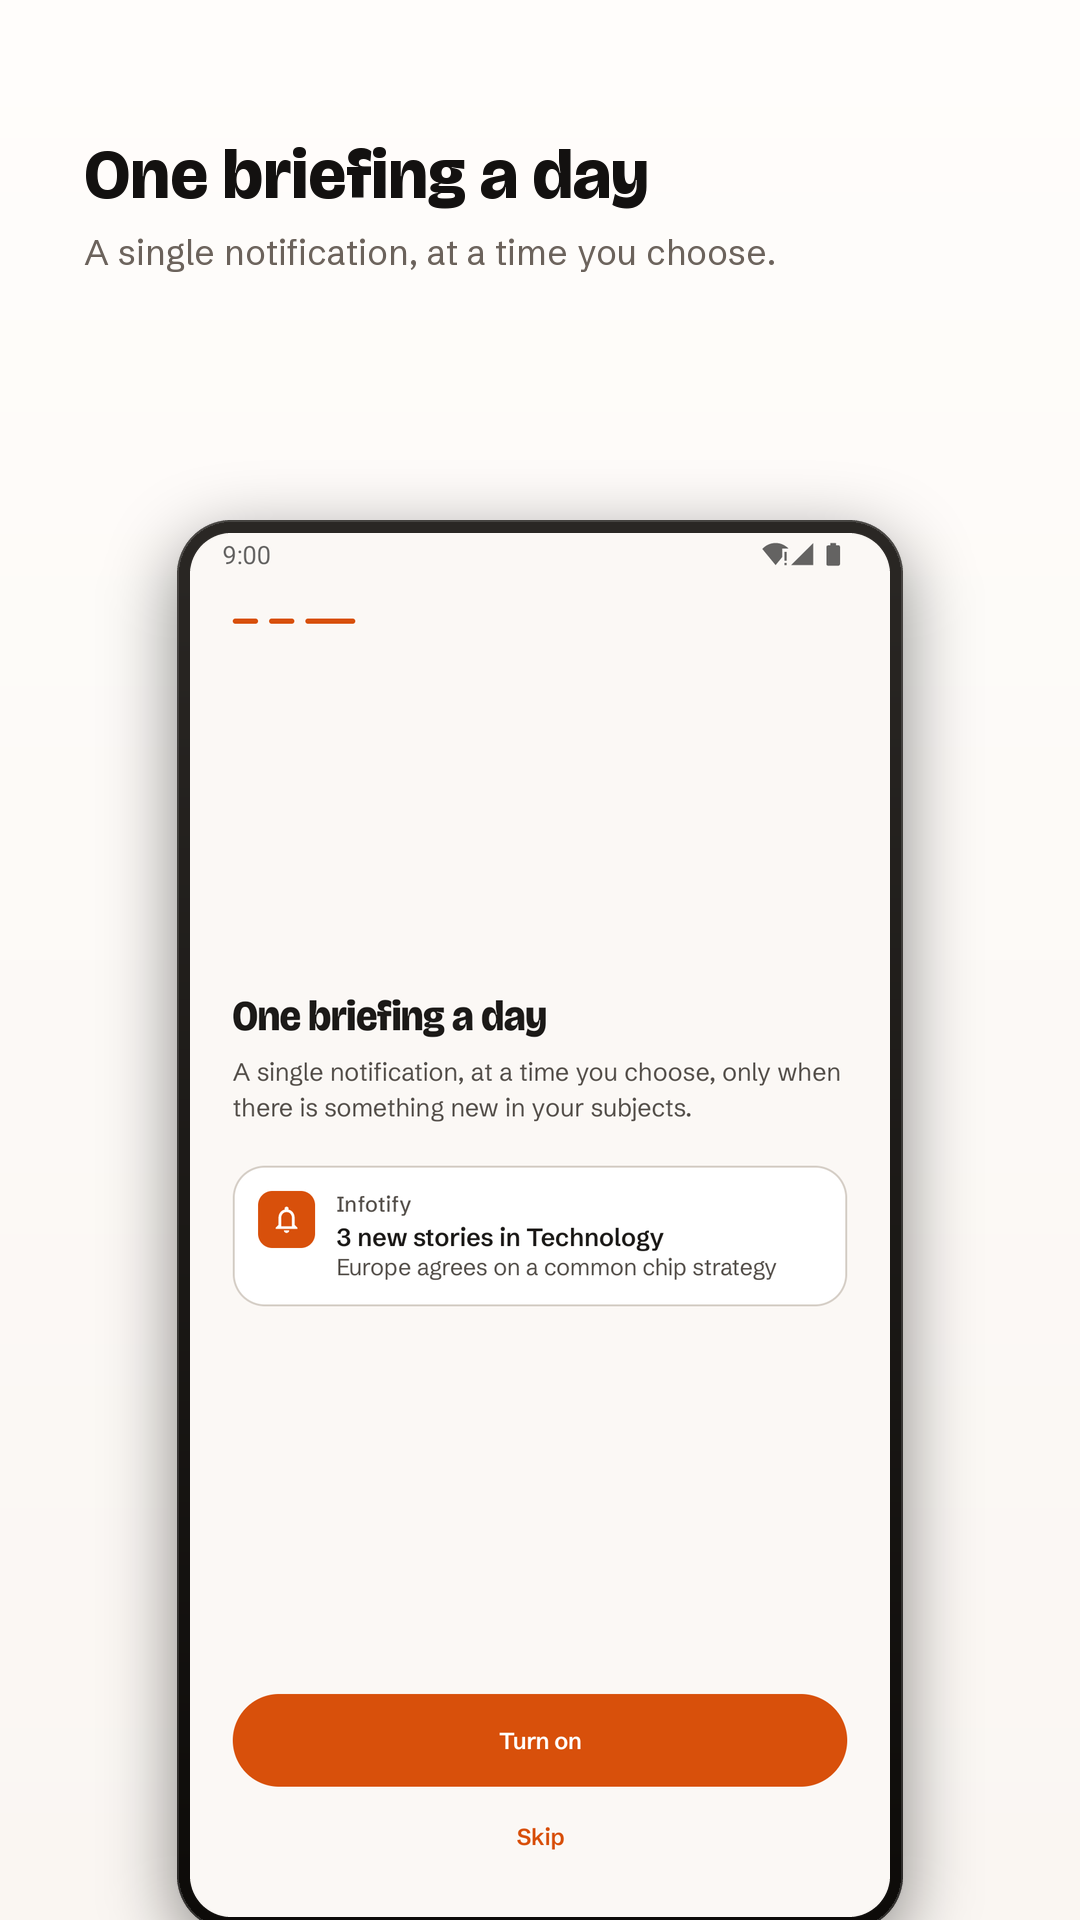
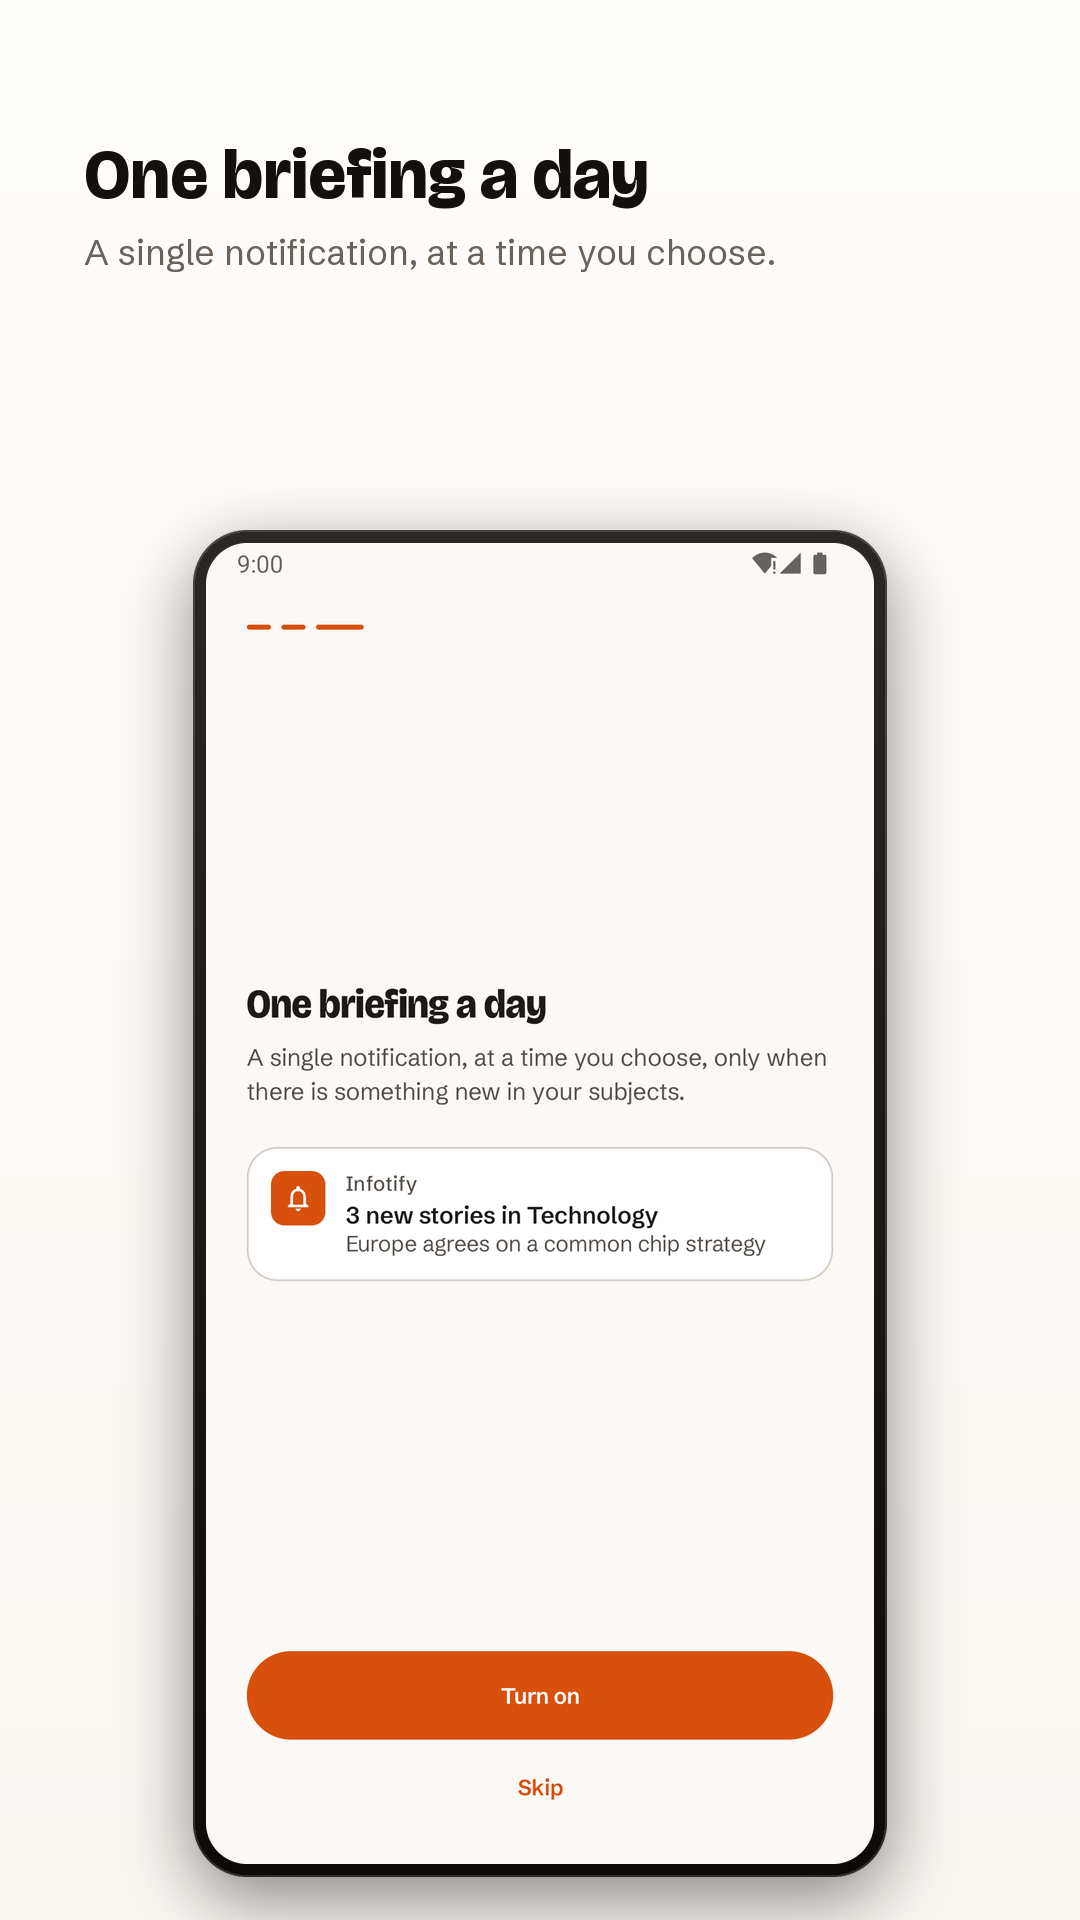
fix(playstore): stop clipping the device, and align it across every tile
dy was max(caption_bottom + 96, H - device.height + 10). The +10 put the phone
ten pixels past the canvas, so the bottom bezel and its rounded corners were cut
on all eight tiles. And because dy also tracked the caption height, the phone sat
at a different y on almost every tile, which is what shows as drift when the
carousel is scrolled.

The device now sits at a fixed y and is sized to fit the space left above the
bottom margin, instead of being a fixed width that overshoots. An assert fails the
build if a caption ever grows into it. Measured: every tile now ends at row 1874,
45px clear of the edge.

Changed region(s): [[0.1528, 0.25, 0.8556, 1.0]]

diff --git a/playstore/generate.py b/playstore/generate.py
@@ -116,6 +116,12 @@ def wrap(draw, text, font, max_width):
     return lines
 
 
+# One vertical rhythm for the whole carousel.
+DEVICE_TOP = 530
+BOTTOM_MARGIN = 44
+BEZEL = 13
+
+
 def screenshot_asset(capture, headline, subline, theme, out_name):
     W, H = 1080, 1920
     dark = theme == "dark"
@@ -160,10 +166,17 @@ def screenshot_asset(capture, headline, subline, theme, out_name):
     shot = Image.open(capture)
     shot = shot.crop((0, 0, shot.width, shot.height - 85))
 
-    device = phone(shot, screen_w=700)
+    # The device sits at the same y on every tile and is sized to fit above the bottom
+    # margin, rather than being a fixed width that overshoots the canvas. Both matter in the
+    # carousel: the previous layout clipped 10px off the bottom bezel, and let dy drift with
+    # the length of the caption, so no two phones lined up.
+    assert y + 40 <= DEVICE_TOP, f"{out_name}: caption runs into the device"
+    screen_w = round((H - DEVICE_TOP - BOTTOM_MARGIN - BEZEL * 2) * shot.width / shot.height)
+
+    device = phone(shot, screen_w=screen_w, bezel=BEZEL)
     shadow, pad = drop_shadow(device)
     dx = (W - device.width) // 2
-    dy = max(y + 96, H - device.height + 10)
+    dy = DEVICE_TOP
 
     canvas.alpha_composite(shadow, (dx - pad, dy - pad))
     canvas.alpha_composite(device, (dx, dy))
